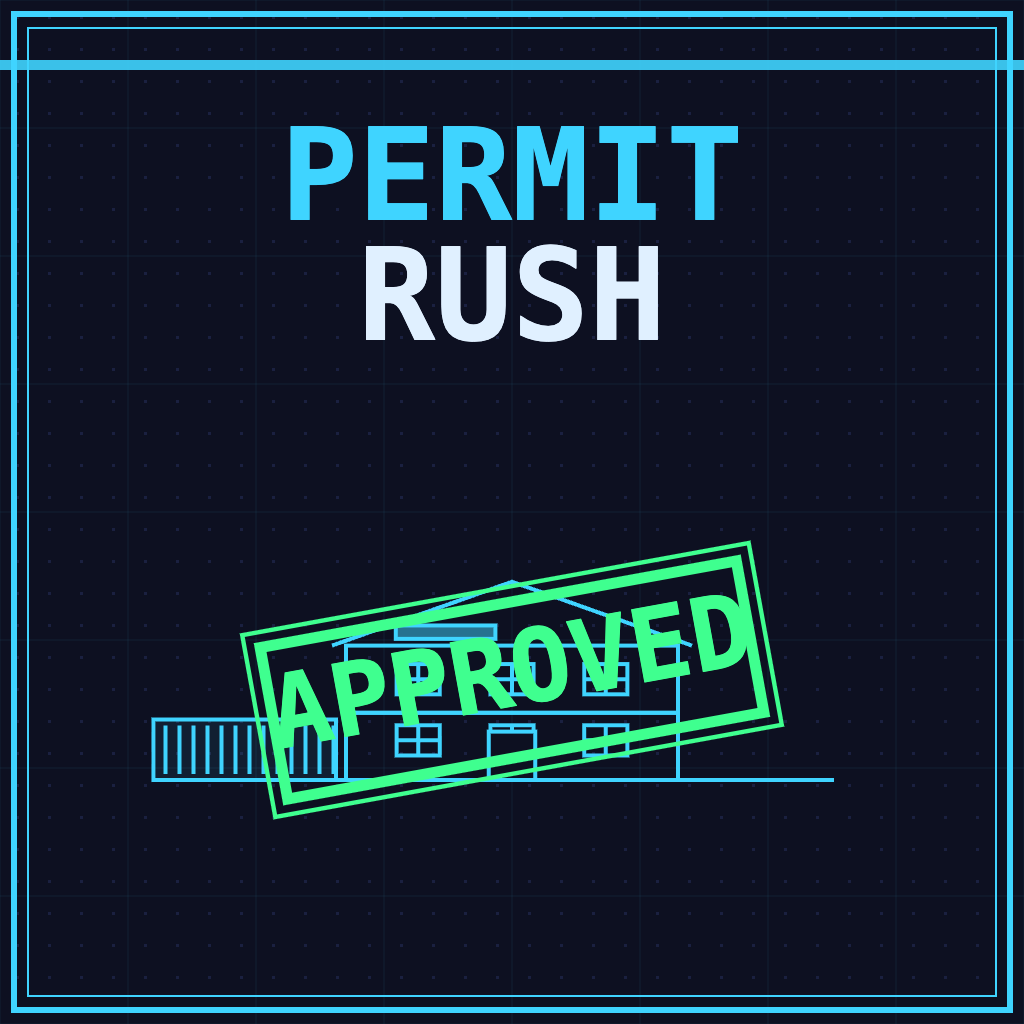
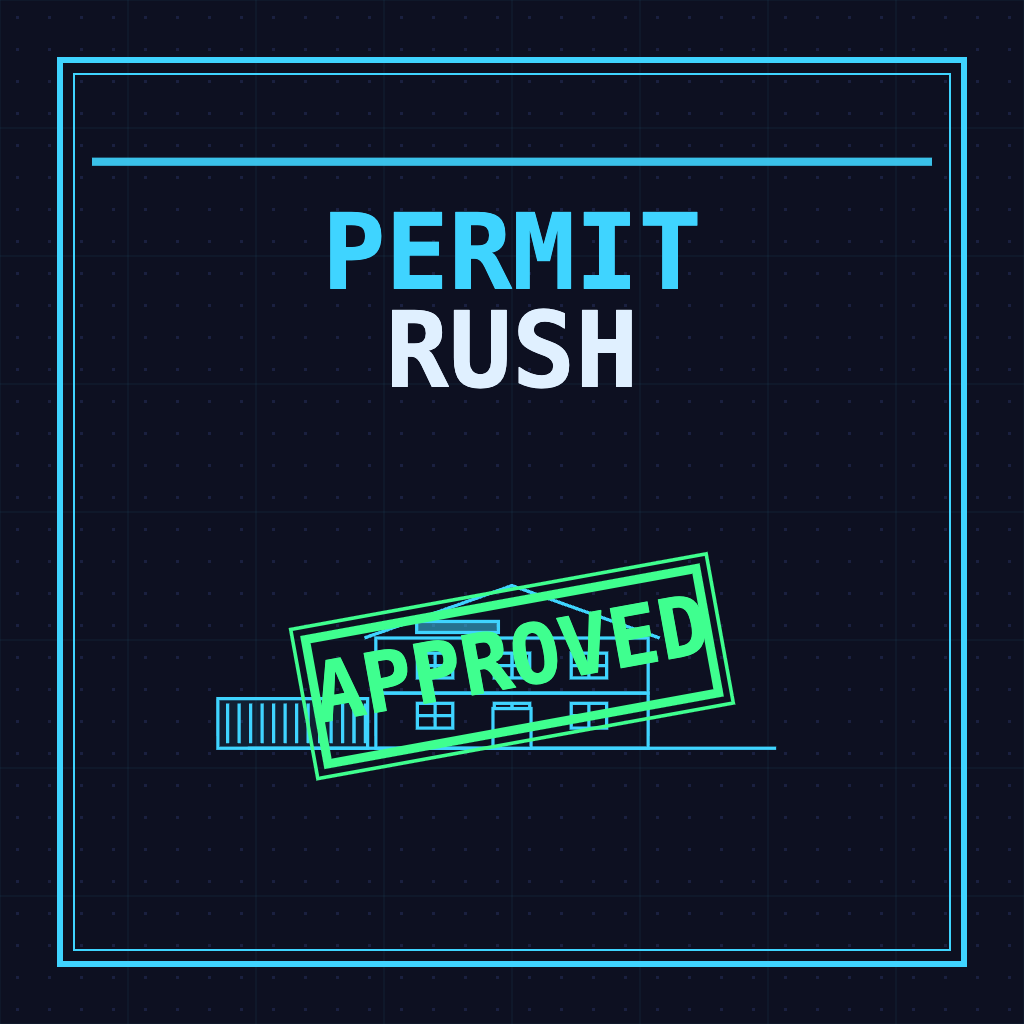
Zoom thumbnail content inside safe-area padding to survive platform edge crop (v0.1.3)

Changed region(s): [[0.0, 0.0, 1.0, 1.0], [0.125, 0.5312, 0.8125, 0.8125], [0.0938, 0.125, 0.9062, 0.375]]

diff --git a/src/core/constants.js b/src/core/constants.js
@@ -1,4 +1,4 @@
-export const VERSION = 'v0.1.2';
+export const VERSION = 'v0.1.3';
 
 export const CANVAS_W = 1080;
 export const CANVAS_H = 1920;
